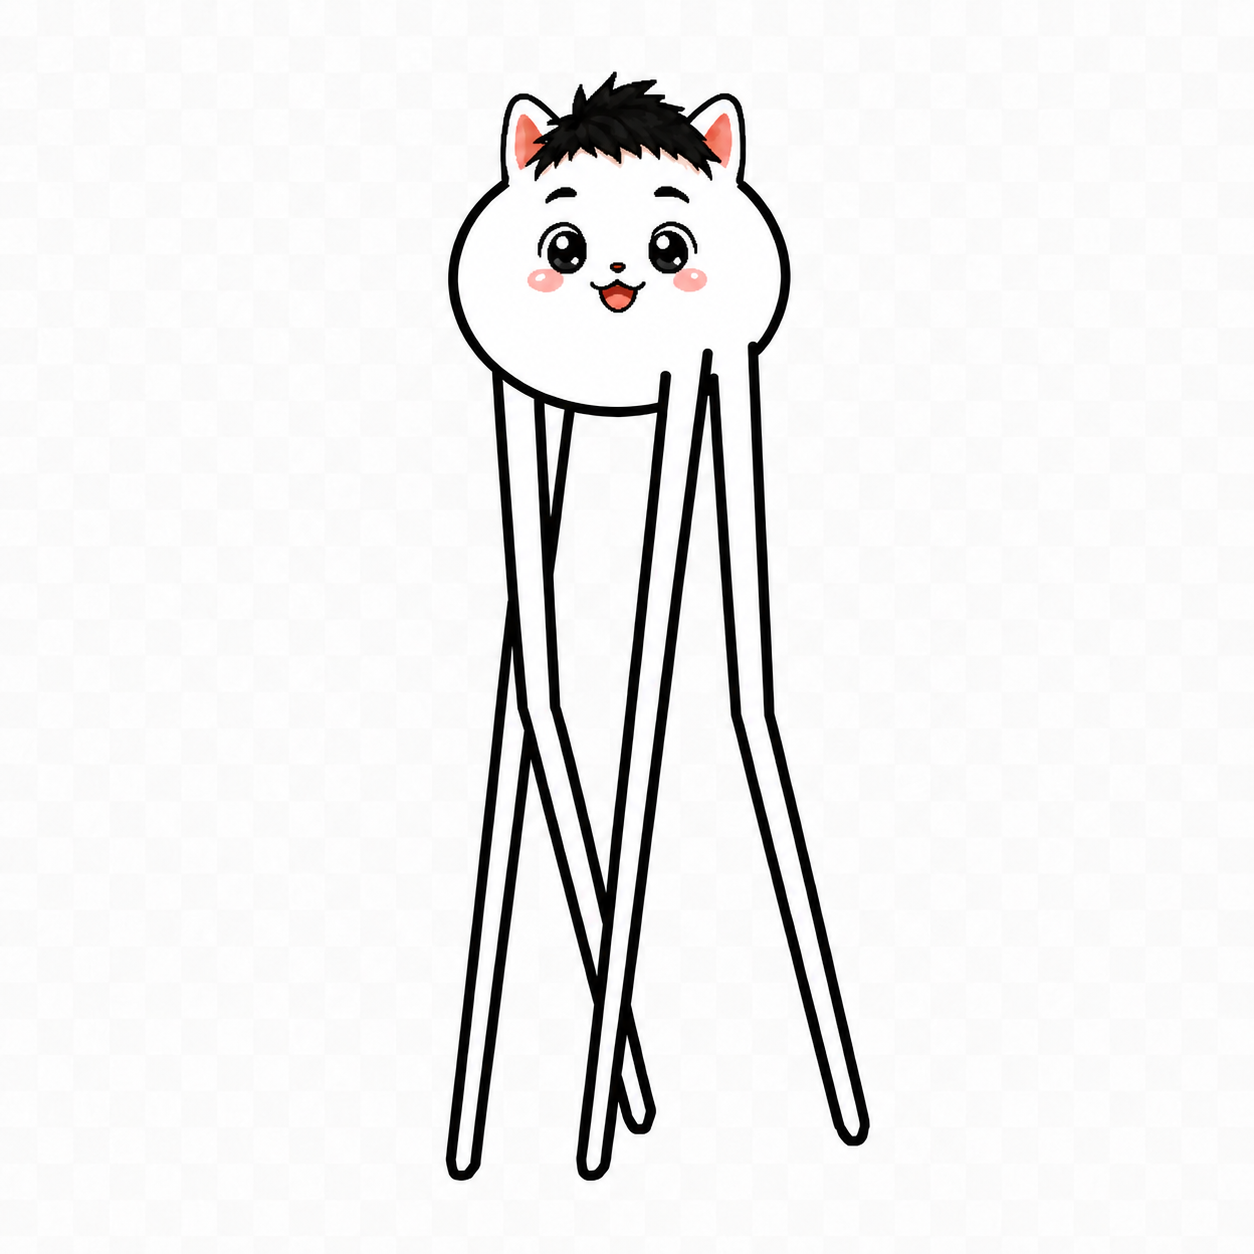
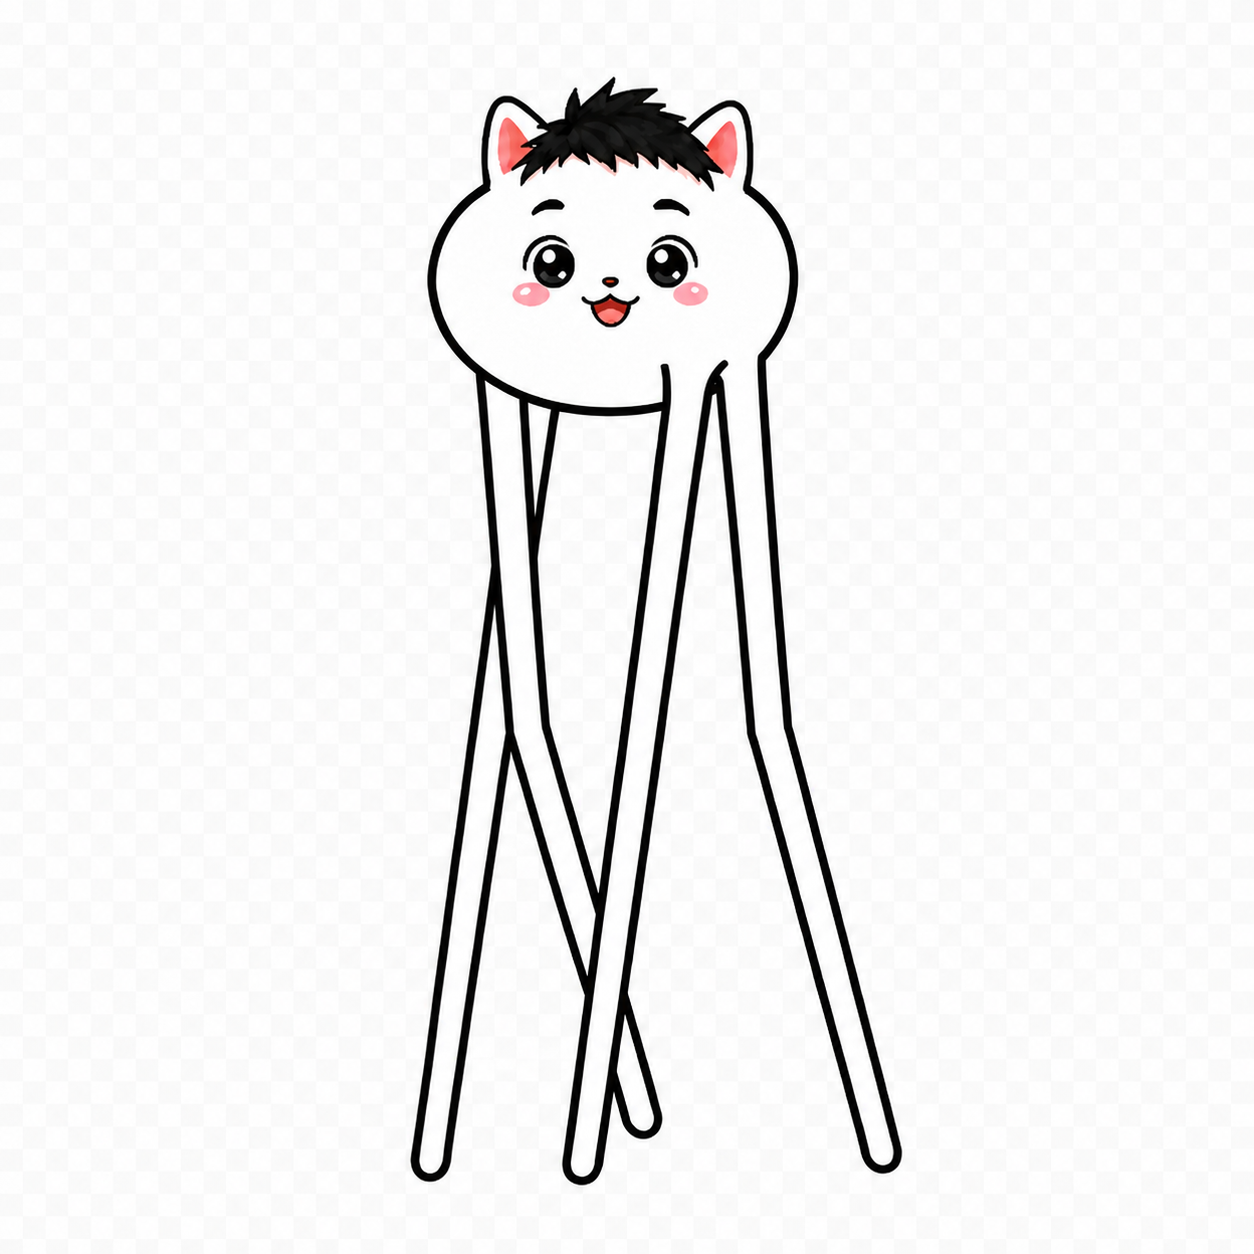
Move restart action into battle HUD

Changed region(s): [[0.311, 0.0622, 0.7153, 0.9641]]

diff --git a/game.html b/game.html
@@ -293,7 +293,6 @@ h1 {
   display: inline-flex;
   align-items: center;
   gap: 6px;
-  margin-top: 7px;
   padding: 4px 8px;
   border: 1px solid rgba(102, 217, 239, 0.36);
   border-radius: 4px;
@@ -302,6 +301,14 @@ h1 {
   font-size: 12px;
   font-weight: 900;
   line-height: 1;
+}
+
+.hud-actions {
+  display: flex;
+  justify-content: flex-end;
+  align-items: center;
+  gap: 6px;
+  margin-top: 7px;
 }
 
 .audience-line strong {
@@ -343,12 +350,6 @@ canvas {
   grid-auto-rows: minmax(72px, auto);
   gap: 10px;
   padding: 12px 14px 8px;
-}
-
-.command-row {
-  display: flex;
-  justify-content: flex-end;
-  padding: 0 14px 12px;
 }
 
 button {
@@ -411,11 +412,20 @@ button:disabled {
   pointer-events: none;
 }
 
-.command-card {
-  width: min(220px, 100%);
-  min-height: 48px;
-  background:
-    linear-gradient(180deg, rgba(102, 217, 239, 0.42) 0%, rgba(102, 217, 239, 0.1) 42%, #202737 43%, #151a24 100%);
+.restart-button {
+  min-height: 0;
+  border: 1px solid rgba(246, 247, 251, 0.42);
+  padding: 5px 8px;
+  background: rgba(10, 15, 23, 0.72);
+  color: #f6f7fb;
+  font-size: 11px;
+  line-height: 1;
+  box-shadow: none;
+  text-shadow: 1px 1px 0 #000;
+}
+
+.restart-button::after {
+  display: none;
 }
 
 .message {
@@ -454,16 +464,13 @@ button:disabled {
   .compact-stats {
     justify-content: flex-start;
   }
+  .hud-actions {
+    justify-content: flex-start;
+  }
   .summon-deck {
     grid-template-columns: repeat(2, minmax(0, 1fr));
     gap: 8px;
     padding: 10px 10px 8px;
-  }
-  .command-row {
-    padding: 0 10px 10px;
-  }
-  .command-card {
-    width: 100%;
   }
   button {
     min-height: 60px;
@@ -582,9 +589,12 @@ button:disabled {
           <div class="compact-stats">
             <span>撃破 <strong id="defeats">0</strong></span>
           </div>
-          <div class="audience-line" aria-label="現在の参戦人数">
-            <span class="audience-pulse" aria-hidden="true"></span>
-            <span>参戦中 <strong id="viewerCount">--</strong></span>
+          <div class="hud-actions" aria-label="バトル操作と現在の参戦人数">
+            <button id="restart" class="restart-button" type="button" aria-label="ステージをリスタート">↻ リスタート</button>
+            <div class="audience-line" aria-label="現在の参戦人数">
+              <span class="audience-pulse" aria-hidden="true"></span>
+              <span>参戦中 <strong id="viewerCount">--</strong></span>
+            </div>
           </div>
         </div>
       </div>
@@ -595,9 +605,6 @@ button:disabled {
           <button id="spawnTank" class="summon-card">かたいねこ 80</button>
           <button id="spawnBattle" class="summon-card">こうげきねこ 110</button>
           <button id="spawnAshinaga" class="summon-card">あしながうみネコ 140</button>
-        </div>
-        <div class="command-row" aria-label="バトル操作">
-          <button id="restart" class="command-card">リスタート</button>
         </div>
       </div>
       <div class="message" id="message">

diff --git a/scripts/verify-game-contract.js b/scripts/verify-game-contract.js
@@ -1170,15 +1170,28 @@ contains(
 
 contains(
   html,
-  'class="command-row"',
-  "restart command row"
+  'class="hud-actions"',
+  "compact HUD action group"
 );
 
 contains(
   html,
-  'aria-label="バトル操作"',
-  "command row accessibility label"
+  'aria-label="バトル操作と現在の参戦人数"',
+  "HUD action group accessibility label"
 );
+
+contains(
+  html,
+  'id="restart" class="restart-button" type="button" aria-label="ステージをリスタート">↻ リスタート</button>',
+  "compact restart action"
+);
+
+assert(
+  html.indexOf('id="restart" class="restart-button"') < html.indexOf('class="audience-line"'),
+  "restart action must appear immediately before the live audience display"
+);
+
+assert(!html.includes('class="command-row"'), "restart must not consume a row in the ally summon deck");
 
 contains(
   html,

diff --git a/design-qa.md b/design-qa.md
@@ -1,0 +1,46 @@
+# Design QA
+
+- Source visual truth: `/var/folders/pw/4kph5jfs6bjbcg9fc1hb_m8m0000gn/T/TemporaryItems/NSIRD_screencaptureui_rx1KVl/スクリーンショット 2026-07-14 22.29.56.png`
+- Replacement character source: `/Users/akinoemiko/Desktop/ChatGPT Image 2026年7月14日 22_39_53.png`
+- Browser-rendered implementation: `/private/tmp/keito-restart-hud-desktop.png`
+- Focused comparison: `/private/tmp/keito-hud-comparison.png`
+- Viewport: 1280 x 759
+- State: Stage 1 battle running with live audience count visible
+
+## Full-view Comparison Evidence
+
+The browser-rendered battle view keeps the existing HUD, canvas, five-column summon deck, message, and privacy note layout. The restart action no longer consumes space below the ally deck and is visible inside the HUD immediately left of the live audience display.
+
+## Focused Region Comparison Evidence
+
+The focused side-by-side comparison uses the original HUD crop and a same-size crop from the implementation. The money and defeat hierarchy is unchanged. The new compact restart action and audience indicator share one row without overlap, clipping, or crowding.
+
+## Required Fidelity Surfaces
+
+- Fonts and typography: Existing game font stack, weight, letter spacing, and HUD hierarchy are unchanged. Restart uses the existing bold UI type at 11px.
+- Spacing and layout rhythm: Restart and audience are separated by a 6px gap and fit within the existing 256px HUD board. The summon deck remains a five-column, two-row-ready area.
+- Colors and visual tokens: Restart uses the existing dark panel, white foreground, and subdued border colors. The audience status colors are unchanged.
+- Image quality and asset fidelity: `assets/ally-ashinaga-umi-neko.png` is replaced byte-for-byte from the supplied image and renders in the existing summon-card and canvas sprite paths.
+- Copy and content: `↻ リスタート`, `参戦中`, money, defeat count, stage copy, and privacy copy remain clear and unchanged in meaning.
+
+## Findings
+
+- No actionable P0, P1, or P2 findings.
+
+## Interaction Verification
+
+- Stage 1 opens from the stage map.
+- Restart is exposed as one accessible button named `ステージをリスタート`.
+- Clicking restart resets the selected stage and keeps the latest live audience count.
+- Browser console warnings and errors: none.
+- Automated contract and runtime tests cover restart reset, audience-count retention, summon controls, analytics dedupe, and Worker boundaries.
+
+## Comparison History
+
+- Initial implementation comparison: passed without actionable layout findings; no visual fixes were required after the first browser capture.
+
+## Follow-up Polish
+
+- No blocking follow-up. A dedicated mobile screenshot can be added later if the browser viewport capture becomes available; the current responsive rules leave more than enough horizontal space for the 85px restart action and 77px audience indicator.
+
+final result: passed

diff --git a/docs/game-site-map.md b/docs/game-site-map.md
@@ -23,7 +23,7 @@ This map is the responsibility-level guide for the current KEITO_DAISENSO site. 
 | Battle state | `state` in `game.html` | Money, base HP, EXP, defeats, units, enemies, effects, cooldowns, and result state are in memory only. |
 | Win condition | `checkResult()` in `game.html` | Destroying the left enemy base clears the selected stage. EXP reaching the stage target is only a progress notice, not a clear condition. |
 | Display rendering | Canvas drawing functions in `game.html` | Castle HP appears as `current / max` above bases. Character HP bars, battle floating numbers, and ordinary hit shockwave effects are intentionally hidden. |
-| Summon controls | `.battle-controls`, `.summon-deck`, and `.command-row` in `game.html` | The summon deck shows ally unit image, unit name, cost, and cooldown progress. Restart is kept in a separate command row so the ally deck can expand toward 10 team slots. |
+| Summon controls | `.battle-controls` and `.summon-deck` in `game.html` | The summon deck shows ally unit image, unit name, cost, and cooldown progress, with room for 10 team slots. Restart is a compact HUD action immediately left of the live audience display. |
 | Analytics | `ANALYTICS_CONFIG` and tracking helpers in `game.html` | Google Analytics sends only allowed game events and safe string properties. |
 | Live audience | `LIVE_AUDIENCE_CONFIG` in `game.html` plus Worker | Sends only an anonymous page-scoped temporary session signal to the Worker. |
 | Visual assets | `GAME_ASSETS` in `game.html` plus `assets/` | Character, base, and background paths are centralized before use. Canvas fallback rendering remains for brittle image loading paths. |

diff --git a/README.md b/README.md
@@ -71,7 +71,7 @@ Stage 3〜4はステージマップにプレビュー表示されていますが
 - こうげきねこ: 攻撃キャラ。コストは高めですが攻撃力が高く、敵拠点を早く壊したい時に活躍します。
 - あしながうみネコ: 長い足で遠めから攻撃する味方キャラ。コストはさらに高めで、海辺ステージ以降の前線支援に使えます。
 
-現在は、`まるねこ 50`、`かたいねこ 80`、`こうげきねこ 110`、`あしながうみネコ 140` の4ボタンで召喚できます。各ボタンには味方キャラクター画像も表示します。味方デッキは将来10体編成に広げやすいように、5つ×2段の枠を想定し、リスタートは味方デッキの外に分けています。
+現在は、`まるねこ 50`、`かたいねこ 80`、`こうげきねこ 110`、`あしながうみネコ 140` の4ボタンで召喚できます。各ボタンには味方キャラクター画像も表示します。味方デッキは将来10体編成に広げやすいように、5つ×2段の枠を想定し、リスタートは画面右上の参戦人数表示の左に分けています。
 
 召喚クールタイムは、`まるねこ 1.4秒`、`かたいねこ 2.6秒`、`こうげきねこ 3.2秒`、`あしながうみネコ 3.6秒` です。
 

diff --git a/docs/superpowers/specs/2026-06-29-stage-map-selection-design.md b/docs/superpowers/specs/2026-06-29-stage-map-selection-design.md
@@ -240,7 +240,7 @@ The Stage 2 playable PR verifies:
 - Ordinary hit shockwave effects stay hidden; battle damage remains internal and only base HP numbers are shown.
 - Ordinary hit flash effects stay hidden; battle damage remains internal.
 - Stage 2 enemy spawn weights are `55 / 30 / 15`.
-- The summon deck remains a 5-column, 2-row-ready ally team area, and restart remains outside that deck.
+- The summon deck remains a 5-column, 2-row-ready ally team area, and the compact restart action remains outside that deck, immediately left of the live audience display in the HUD.
 - Restart restarts the selected playable stage.
 - Stage 3 and Stage 4 remain locked.
 - Existing analytics event names remain `game_open`, `first_summon`, and `stage_clear`.
